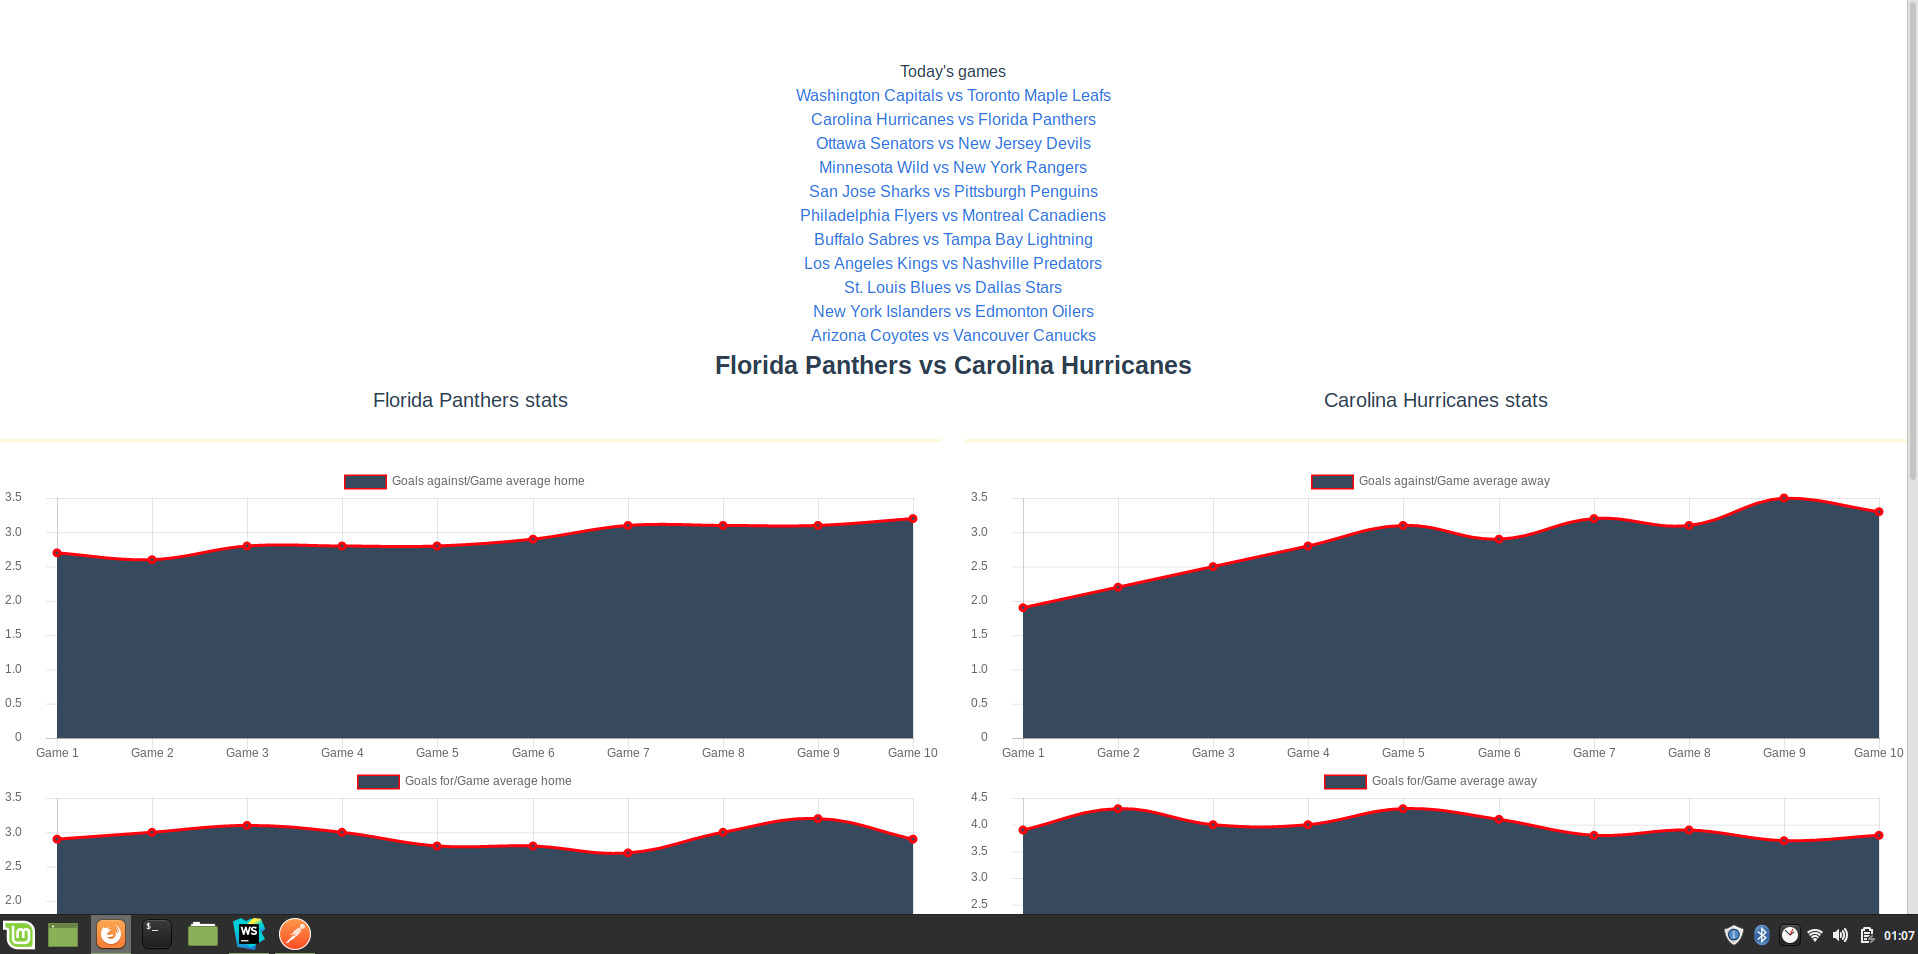
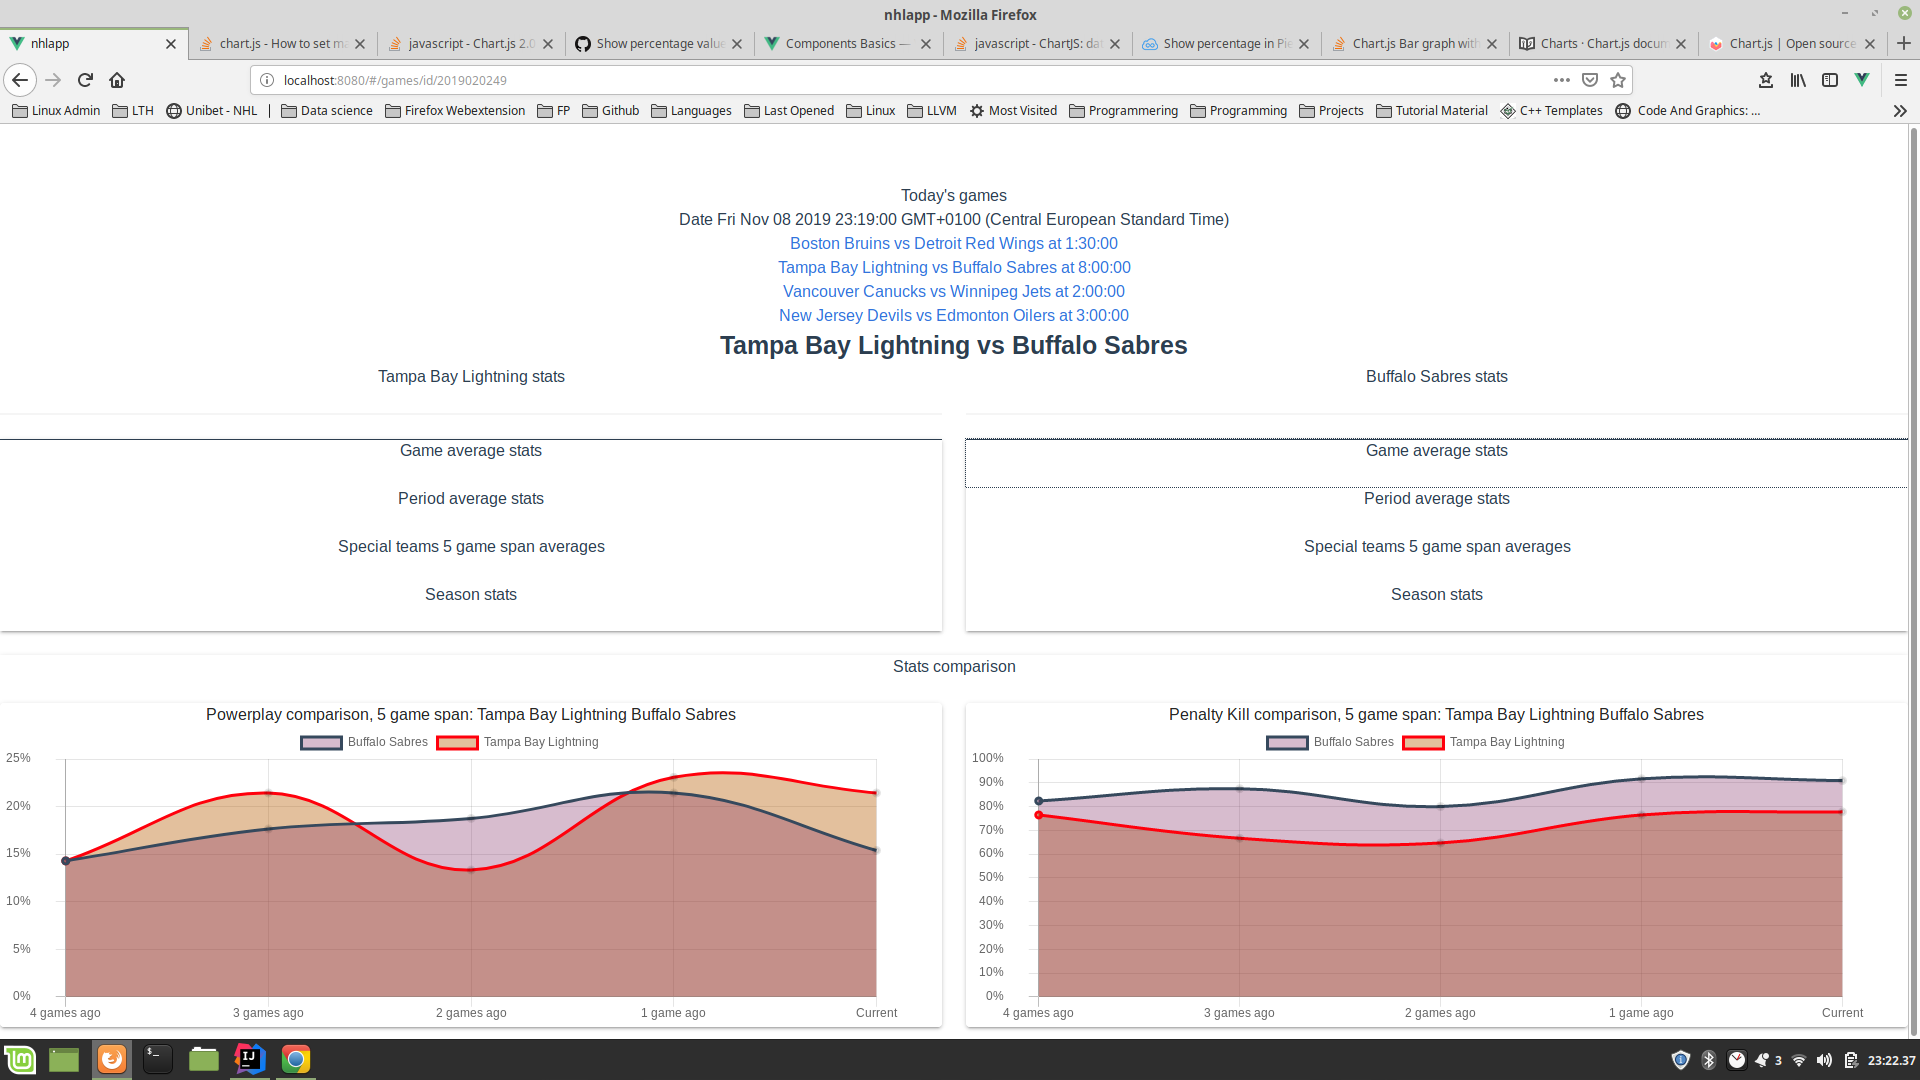
Added Vue component ComparisonLineChart.vue, which can be used for comparing line chart data. Some charts can possibly be removed all together (at least in the game analysis section, which currently is the only section, there might be use for the old charts in the team sections where only 1 team is 

diff --git a/frontend/nhlapp/src/components/ComparisonLineChart.vue b/frontend/nhlapp/src/components/ComparisonLineChart.vue
@@ -1,21 +1,21 @@
 <template>
   <div>
-    <canvas v-bind:id="this.title+'_'+this.team" width="300px" height="300px"></canvas>
+    {{title}}<br>
+    <canvas v-bind:id="this.title" width="300px" height="300px"></canvas>
   </div>
 </template>
 
 <script>
 import Chart from 'chart.js'
 
-function makeDataSets (arr, dt) {
+function makeDataSets (arr, dt, title) {
   const colors = ['rgba(54,73,93,1)', 'rgba(255,0,12,1)', 'rgba(5,255,12,1)']
   const bgcolors = ['rgba(124,34,93, 0.3)', 'rgba(184,99,12,0.4)', 'rgba(189,255,112,0.45)']
-
-  let lbl = (dt === 'GFPA') ? 'Goals for/' : 'Goals against/'
-  return arr.map((pa, index) => {
+  
+  return arr.map((stat, index) => {
     return {
-      label: `${lbl}Period ${pa.period.toString()}`,
-      data: [...pa.trendChartData],
+      label: stat.team,
+      data: [...stat.trendChartData],
       backgroundColor: [
         bgcolors[index] // Blue
       ],
@@ -26,25 +26,6 @@ function makeDataSets (arr, dt) {
     }
   })
 }
-
-function makeComparisonDataSets(arr, dt, label) {
-  const colors = ['rgba(54,73,93,1)', 'rgba(255,0,12,1)']
-  const bgcolors = ['rgba(124,34,93, 0.3)', 'rgba(184,99,12,0.4)']
-  return arr.map((pa, index) => {
-    return {
-      label: label,
-      data: [...pa.trendChartData],
-      backgroundColor: [
-        bgcolors[index] // Blue
-      ],
-      borderColor: [
-        colors[index]// Blue
-      ],
-      borderWidth: 3
-    }
-  })
-}
-
 /**
  * @return {string}
  */
@@ -59,11 +40,12 @@ function ChartGameLabelIndex (gameNumber) {
 }
 
 export default {
-  name: 'LineChart',
+  name: 'ComparisonLineChart',
   props: {
     title: String,
-    team: String,
-    dataSet: Object,
+    teams: Object,
+    dataSetHome: Object,
+    dataSetAway: Object,
     dataType: String,
     percent: Boolean
   },
@@ -106,7 +88,7 @@ export default {
     }
   },
   mounted () {
-    console.log(`Data is loaded... render chart. Show percentage sign: ${this.percent}`)
+    console.log(`Comparison line chart mounted! ${this.teams.home} - ${this.teams.away}`)
     this.createChart(this.title, this.percent)
   },
   watch: {
@@ -114,24 +96,16 @@ export default {
   },
   methods: {
     createChart (title, percent=false) {
+      let arr = [this.dataSetHome, this.dataSetAway];
 
 
-      let ds = (this.dataType.includes('Multiple')) ? makeDataSets(this.dataSet.trendChartData, this.dataType) : [{ // one line graph
-        label: this.title,
-        data: this.dataSet.trendChartData,
-        backgroundColor: [
-          'rgba(54,73,93,0.6)' // Blue
-        ],
-        borderColor: [
-          'rgba(255,0,12,1)' // Blue
-        ],
-        borderWidth: 3
-      }]
+      let ds = makeDataSets(arr, this.dataType, title);
 
       let d = {
         type: 'line',
+        title: this.title,
         data: {
-          labels: (this.dataType.includes('Multiple')) ? this.dataSet.trendChartData[0].trendChartData.map((v, i) => `${ChartGameLabelIndex(5 - i)}`) : this.dataSet.trendChartData.map((v, i) => `${ChartGameLabelIndex(5 - i)}`),
+          labels: this.dataSetHome.trendChartData.map((v, i) => `${ChartGameLabelIndex(5 - i)}`),
           datasets: ds
         },
         options: {
@@ -145,7 +119,7 @@ export default {
                 min: 0,
                 padding: 25,
                 callback: function(value, index, values) {
-                  if(percent === true) {
+                   if(percent === true) {
                     console.log(`Values: ${value}`);
                     return `${value}%`
                   } else {
@@ -158,10 +132,10 @@ export default {
           tooltips: {
             callbacks: {
               label: function(tooltipItem, data) {
-                //get the concerned dataset
+                console.log(`Tooltipitem label: ${tooltipItem.label}`)
                 if(percent) {
                   console.log(`Tooltip callback -> Val: ${data.datasets[tooltipItem.datasetIndex].data[tooltipItem.index]}. Index: ${tooltipItem.index}`);
-                  return `${data.datasets[tooltipItem.datasetIndex].data[tooltipItem.index]}%`;
+                  return `${data.datasets[tooltipItem.datasetIndex].label} ${data.datasets[tooltipItem.datasetIndex].data[tooltipItem.index]}%`;
                 } else {
                   return `${data.datasets[tooltipItem.datasetIndex].data[tooltipItem.index]}`
                 }
@@ -170,7 +144,7 @@ export default {
           }
         }
       }
-      let ctx = document.getElementById(this.title + '_' + this.team)
+      let ctx = document.getElementById(this.title)
       ctx.height = 300
       ctx.width = 900
       const chart = new Chart(ctx, {

diff --git a/src/backend/analytics/game.js b/src/backend/analytics/game.js
@@ -3,6 +3,45 @@ const {Game} = require("../models/GameModel");
 const {GameData} = require('../../data/GameData')
 /// ------ GAME AVERAGES & ANALYSIS ------
 
+function PenaltyKilling(team, games) {
+    const span = Math.floor(games.length / 2);
+    return [...Array(span).keys()].map((v, index) => {
+        let total_pks = 0;
+        let goals = 0;
+      let pks = games.filter((g, i) => i <= (span+index) && i > index).map(g => g.toGameData().getPenaltyKill(team));
+
+      for(let pk of pks) {
+          console.log(`Total: ${pk.total}. Goals: ${pk.goals}`);
+          total_pks += pk.total;
+          goals += pk.goals;
+      }
+      return {
+        total: total_pks,
+        goals: goals,
+        pct: (1 - (goals / total_pks)) * 100.0
+      };
+    });
+}
+
+function PowerPlay(team, games) {
+    const span = Math.floor(games.length / 2);
+    return [...Array(span).keys()].map((v, index) => {
+        let total_pps = 0;
+        let goals = 0;
+        let pps = games.filter((g, i) => i <= (span+index) && i > index).map(g => g.toGameData().getPowerPlays(team));
+        for(let pp of pps) {
+            total_pps += pp.total;
+            goals += pp.goals;
+        }
+        return {
+            total: total_pps,
+            goals: goals,
+            pct: ((goals / total_pps) * 100.0)
+        };
+    })
+}
+
+
 /**
  * Returns goals for average over the last games, lastGames.
  * @param team {String}
@@ -256,17 +295,21 @@ class Time {
     equals(t) {
         return this >= t && this <= t;
     }
+
+    toString() {
+        return `${this.min}:${this.sec} P${this.period}`
+    }
+
     /**
      * For use with comparisons of two time points. and since mins and sec can be 0, we make *sure* it's never 0 by
      * adding 1. This basically gives us the ability to "fake" overloading operators in Javascript. Because
      *
      *  Example:
-     *      let t = new Time(13, 42, 2);  // 13:42 Period 2
-     *      let ta = new Time(13, 42, 2); // 13:42 Period 2
-     *      let t2 = new Time(17, 13, 3); // 17:13 Period 3
+     *      let t = new Time(13, 42, 2);  // 13:42 P2
+     *      let ta = new Time(13, 42, 2); // 13:42 P2
+     *      let t2 = new Time(17, 13, 3); // 17:13 P3
      *      t < t2 -> true
      *      t2 < t -> false
-     *      ta === t -> true
      * @returns {number}
      */
     valueOf() {
@@ -293,12 +336,16 @@ class Time {
  * @constructor
  */
 async function AnalyzePatterns(team, games) {
-    let pattern_filter = {
+    let pattern_filter = { // TODO: This is just an example filter object
             greatest_pickup: {
-                deficit: 2,
+                value: 2,
+                time: new Time(13, 42, 2)
+            },
+            greatest_loss: {
+                value: 2,
                 time: new Time(13, 42, 2)
             }
-    }
+    };
 }
 
 /**
@@ -347,4 +394,4 @@ const lastXGameStats = (team, games) =>
                 }
             });
 
-module.exports = { GFGameAverage, GAGameAverage, GGameAverage, EmptyNetScoring, EmptyNetLetUps, lastXGameStats };
+module.exports = { GFGameAverage, GAGameAverage, GGameAverage, EmptyNetScoring, EmptyNetLetUps, lastXGameStats, PowerPlay, PenaltyKilling };

diff --git a/frontend/nhlapp/src/components/GameTeamCompare.vue b/frontend/nhlapp/src/components/GameTeamCompare.vue
@@ -1,19 +1,37 @@
 <template>
   <div>
-    <v-expansion-panel>
-      <v-expansion-panel-content expand-icon="mdi-menu-down">
-        <div slot="header"><h1>Stats comparison</h1></div>
-        <v-card>
-
-        </v-card>
-      </v-expansion-panel-content>
-    </v-expansion-panel>
-  </div>
+      <v-expansion-panel>
+        <v-expansion-panel-content expand-icon="mdi-menu-down">
+          <div slot="header"><h1>Stats comparison</h1></div>
+          <div class="columns">
+            <div class="column">
+              <v-card>
+                <div>
+                  <comparison-line-chart :percent="true" :title="'Powerplay comparison, 5 game span: '+awayAnalysis.team+' '+homeAnalysis.team" :teams="{ home: homeAnalysis.team, away: awayAnalysis.team }" v-bind:dataSetHome="{team: homeAnalysis.team, trendChartData: homeAnalysis.PP.trendChartData}" v-bind:data-set-away="{team: awayAnalysis.team, trendChartData: awayAnalysis.PP.trendChartData}"></comparison-line-chart>
+                </div>
+              </v-card>
+            </div>
+            <div class="column">
+              <v-card>
+                <div>
+                  <comparison-line-chart :percent="true" :title="'Penalty Kill comparison, 5 game span: '+awayAnalysis.team+' '+homeAnalysis.team" :teams="{ home: homeAnalysis.team, away: awayAnalysis.team }" v-bind:dataSetHome="{team: homeAnalysis.team, trendChartData: homeAnalysis.PK.trendChartData}" v-bind:data-set-away="{team: awayAnalysis.team, trendChartData: awayAnalysis.PK.trendChartData}"></comparison-line-chart>
+                </div>
+              </v-card>
+            </div>
+          </div>
+        </v-expansion-panel-content>
+      </v-expansion-panel>
+    </div>
 </template>
 
 <script>
+import ComparisonLineChart from "./ComparisonLineChart";
+
 export default {
   name: 'GameTeamCompare',
+  components: {
+    ComparisonLineChart
+  },
   props: {
     homeAnalysis: Object,
     homeSeason: Object,

diff --git a/frontend/nhlapp/src/components/GameTeam.vue b/frontend/nhlapp/src/components/GameTeam.vue
@@ -21,11 +21,22 @@
       <div slot="header"><h2>Period average stats</h2></div>
       <v-card>
         <v-card-title>Goals for/period average over 5 game span</v-card-title>
-        <line-chart :title="'Goals for/Period ' + team" :team="team" v-bind:dataType="'GFPA'" v-bind:dataSet="{ trendChartData: analysis.GFAverage.periods }"></line-chart>
+        <line-chart :title="'Goals for/Period ' + team" :team="team" v-bind:dataType="'Multiple:GFPA'" v-bind:dataSet="{ trendChartData: analysis.GFAverage.periods }"></line-chart>
       </v-card>
       <v-card>
         <v-card-title>Goals against/period average over 5 game span</v-card-title>
-        <line-chart :title="'Goals against/Period ' + team" :team="team" v-bind:dataType="'GAPA'" v-bind:dataSet="{ trendChartData: analysis.GAAverage.periods }"></line-chart>
+        <line-chart :title="'Goals against/Period ' + team" :team="team" v-bind:dataType="'Multiple:GAPA'" v-bind:dataSet="{ trendChartData: analysis.GAAverage.periods }"></line-chart>
+      </v-card>
+    </v-expansion-panel-content>
+    <v-expansion-panel-content expand-icon="mdi-menu-down">
+      <div slot="header"><h2>Special teams 5 game span averages</h2></div>
+      <v-card>
+        <v-card-title>Penalty Killing 5 game span</v-card-title>
+        <line-chart :title="'Penalty Killing '+team" :team="team" v-bind:dataType="'PK stats'" v-bind:dataSet="{ trendChartData: analysis.PK.trendChartData }" v-bind:percent=true></line-chart>
+      </v-card>
+      <v-card>
+        <v-card-title>Power play 5 game span</v-card-title>
+        <line-chart :title="'Power play '+team" :team="team" v-bind:dataType="'PP stats'" v-bind:dataSet="{ trendChartData: analysis.PP.trendChartData }" v-bind:percent=true></line-chart>
       </v-card>
     </v-expansion-panel-content>
     <v-expansion-panel-content expand-icon="mdi-menu-down">

diff --git a/src/data/GameData.js b/src/data/GameData.js
@@ -83,6 +83,48 @@ class GameData {
 
     getOtherTeamName(team) { return (team === this.away) ? this.home : this.away; }
 
+    getPowerPlays(team) {
+        if(team === this.away) {
+            let {goals, total} = this.powerPlay.away;
+            return {
+                goals: goals,
+                total: total
+            };
+        } else if(team === this.home) {
+            let {goals, totals} = this.powerPlay.home;
+            return {
+                goals: goals,
+                total: totals
+            };
+        } else {
+            throw new Error(`Team provided as parameter does not play in this game: ${team}. Teams playing: ${this.away}-${this.home}`);
+        }
+    }
+    getPenaltyKill(team) {
+        if(team === this.home) {
+            let {goals, total} = this.powerPlay.away;
+            if(total === undefined) {
+                console.log(`Value is undefined in game: ${this.away}-${this.home} with gameID: ${this.id}`);
+            }
+            return {
+                goals: goals,
+                total: total
+            };
+        } else if(team === this.away) {
+            let {goals, totals} = this.powerPlay.home;
+            if(totals === undefined) {
+                console.log(`Value is undefined in game: ${this.away}-${this.home} with gameID: ${this.id}`);
+            }
+            console.log(`Goals: ${goals}. Total in game: ${totals}`);
+            return {
+                goals: goals,
+                total: totals
+            };
+        } else {
+            throw new Error(`Team provided as parameter does not play in this game: ${team}. Teams playing: ${this.away}-${this.home}`);
+        }
+    }
+
     get totalScore() {
         return this.finalResult.away + this.finalResult.home;
     }

diff --git a/src/backend/routes.js b/src/backend/routes.js
@@ -120,6 +120,20 @@ async function SpanAnalysis(team, isHome) {
             games = games.reverse();
             wonGames = wonGames.reverse();
             lostGames = lostGames.reverse();
+            let PK_data = API.PenaltyKilling(team, games); // Array of objects, like: [{total, goals, pct}, {total, goals, pct}, {total, goals, pct}, ...]
+            let PP_data = API.PowerPlay(team, games);
+
+            let PK = {
+                trendChartData: PK_data.map(pk_stats => Number.parseFloat(pk_stats.pct.toFixed(3))),
+                data: PK_data
+            };
+            let PP = {
+                trendChartData: PP_data.map(pp_stats => Number.parseFloat(pp_stats.pct.toFixed(3))),
+                data: PP_data
+            };
+
+            console.log(`PK data: ${[...PK.trendChartData]}`);
+
             return {
                 team: team,
                 GAAverage: {
@@ -135,6 +149,8 @@ async function SpanAnalysis(team, isHome) {
                     game: API.GGameAverage(team, games)
                 },
                 PeriodWins: [...Array(4).keys()].filter(i => i > 0).map(period => API.PeriodWins(team, games, period)),
+                PK: PK,
+                PP: PP,
                 EmptyNetGoals: API.EmptyNetScoring(team, empty_net_games),
                 EmptyNetLetUps: API.EmptyNetLetUps(team, lostGames),
                 passed: true
